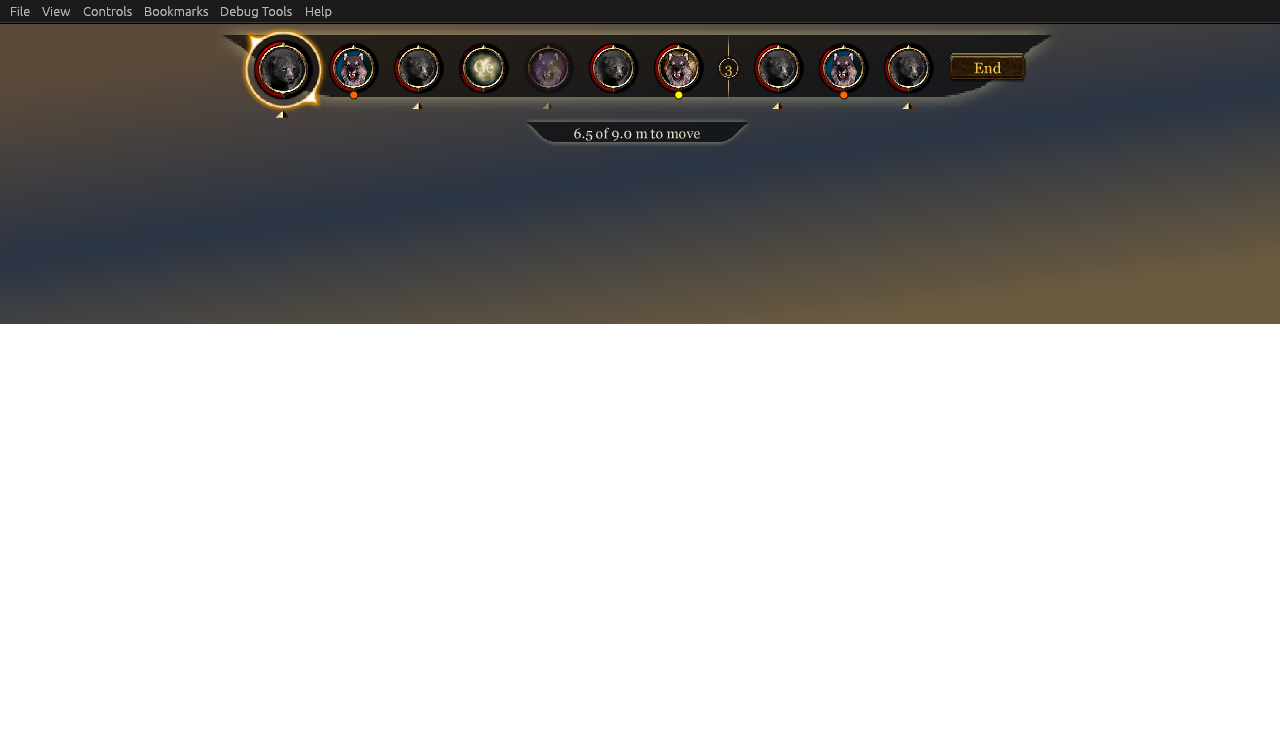
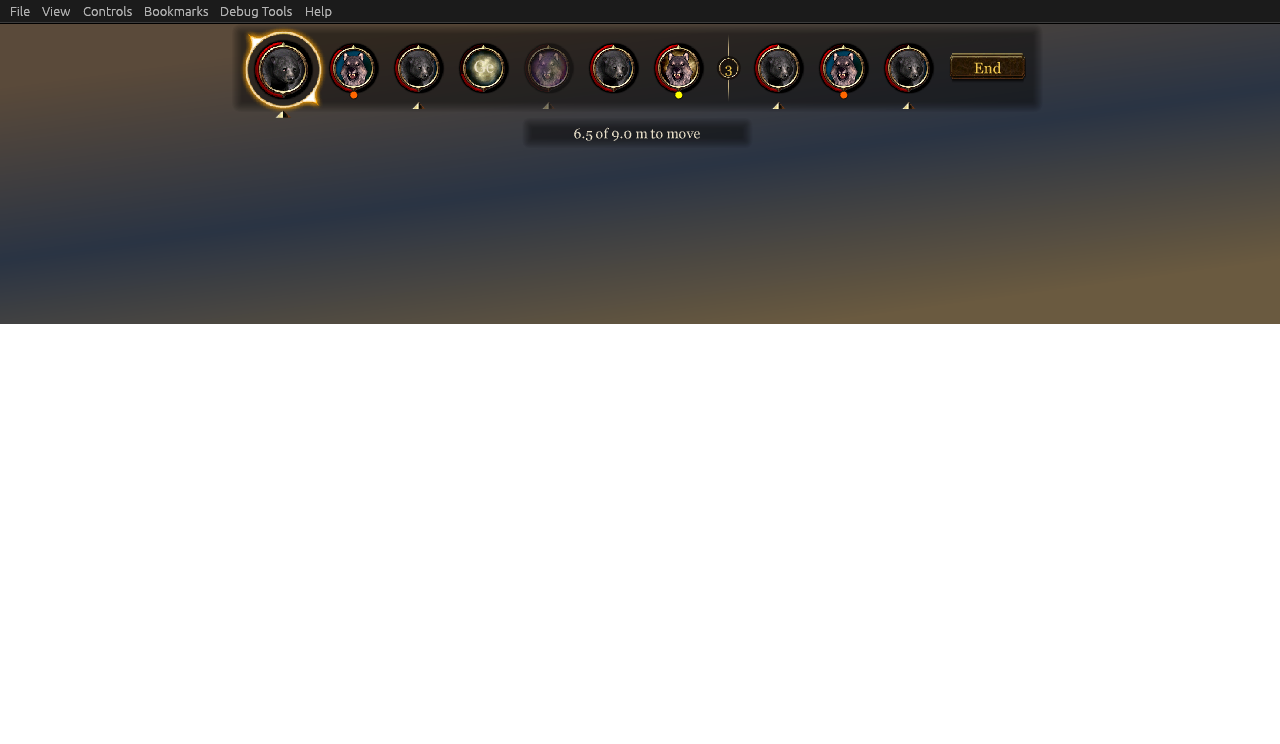
The bar's backing: a rounded rectangle, its edges fading out
The user: no tapering ends as the top menu's bar has; rectangular, with
rounded corners, the edges fading out. Drawn as nested rounded
rectangles of a thin black each, so the black adds up towards the middle
and the rim is feathered; the caption's strip is the same, smaller.

Claude-Session: https://claude.ai/code/session_01SHrV5jHcG2TiBdHZ1wfhrC

Changed region(s): [[0.1562, 0.0309, 0.8125, 0.1855], [0.4375, 0.1855, 0.5625, 0.2164]]

diff --git a/dev/UI.md b/dev/UI.md
@@ -86,7 +86,7 @@ The user asked for the game's own portrait backgrounds and skeuomorphic frames i
 - for the current turn, the party bar's glow ring, `Portraits_I60`, behind, and the card larger;
 - a gem of the rank's colour for lieutenants and bosses. (A rim of the side's colour outside the gold read as stray orange circles to the user, and went.)
 
-"End" is the inventory's leather button (its sort picker's `inventory_I2EC`, lighter under the pointer, `I2EE`, darker pressed, `I2F4`), its word centred on it. Behind the medallions stands the game's top menu's own translucent bar, `NavBar_I71`, shaped ends and all (the user: no fade, translucent like the top menu); a small one of the same under it carries the caption: on the player's turn the movement left, and a card's name while the pointer is on it, nothing else (the round, the name and "action ready" went; the action is nearly always ready, the turn ending once it is spent). Under each of the player's characters, the sort button's gold arrow (`inventory_I2F1`) points up; between rounds, the game's gold rule (`PopupLayer_I4D`) stands on end with the next round's number in the party bar's small gold ring (`Portraits_IF1`).
+"End" is the inventory's leather button (its sort picker's `inventory_I2EC`, lighter under the pointer, `I2EE`, darker pressed, `I2F4`), its word centred on it. Behind the medallions stands a translucent black panel, square with rounded corners and edges that fade out over a few pixels (the user's shape, after trying the game's notification strip, which faded at the ends, and the top menu's bar, `NavBar_I71`, whose ends taper); a small one of the same under it carries the caption: on the player's turn the movement left, and a card's name while the pointer is on it, nothing else (the round, the name and "action ready" went; the action is nearly always ready, the turn ending once it is spent). Under each of the player's characters, the sort button's gold arrow (`inventory_I2F1`) points up; between rounds, the game's gold rule (`PopupLayer_I4D`) stands on end with the next round's number in the party bar's small gold ring (`Portraits_IF1`).
 
 ### The protocol, built 2026-09-30
 
